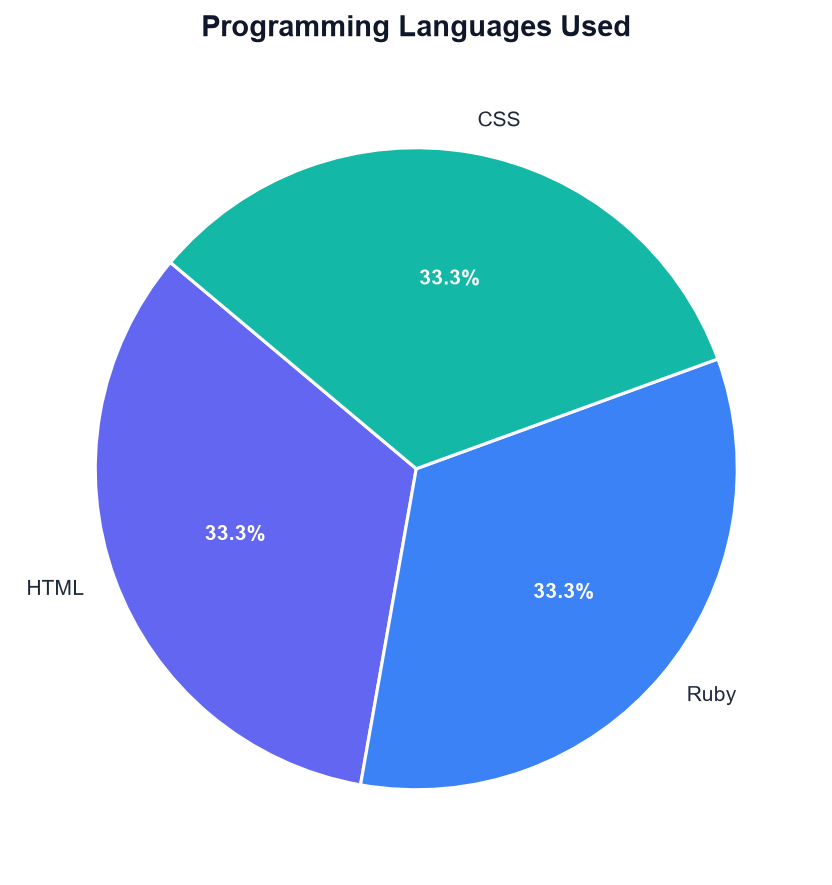
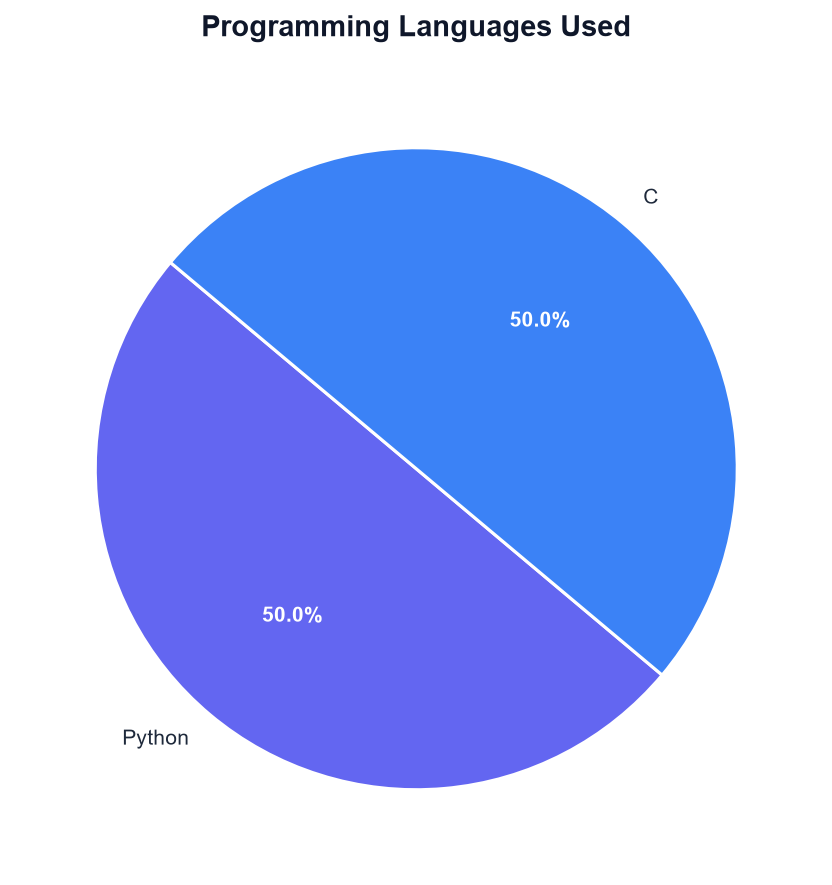
README version1

diff --git a/README.md b/README.md
@@ -1,88 +1,127 @@
-# 📊 GitHub Portfolio Analyzer
+# GitHub Portfolio Analyzer
 
-A modern, professional Python and **Streamlit** dashboard designed to analyze public GitHub profiles, evaluate portfolio health, visualize key repository metrics, and generate executive CSV and PDF reports.
+## Présentation
 
----
-
-## 🌟 Key Features
-
-* **Profile Overview**: Displays avatar, bio, follower count, following count, and public repository counts.
-* **Portfolio Metrics**: Calculates aggregate star count, fork count, and identifies the user's top-performing repository.
-* **Portfolio Scoring Algorithm**: Evaluates profile quality on a 0–100 scale using repository count, star counts, follower engagement, and description completeness.
-* **Actionable Recommendations**: Automatically highlights profile optimization opportunities.
-* **Interactive & Static Visualizations**: Interactive Plotly charts (Language breakdown donut chart, Stars bar chart, Forks bar chart) alongside Matplotlib image exports.
-* **CSV Export**: One-click download of all repository details encoded in UTF-8 format (`<username>_repositories.csv`).
-* **Professional PDF Export**: Generates a PDF audit report featuring user details, avatar image, executive metrics summary, recommendations, and structured repository tables (`<username>_portfolio_report.pdf`).
-* **Robust Error Handling**: Friendly error banners for missing usernames, 404 non-existent users, API rate limits, and network connection drops.
-* **Performance Caching**: Uses Streamlit `@st.cache_data` caching to minimize redundant GitHub API calls.
+GitHub Portfolio Analyzer est une application développée en **Python** avec **Streamlit** permettant d'analyser un profil GitHub public. Elle récupère les données via l'API GitHub, génère des statistiques, calcule un score de portfolio et propose des visualisations interactives ainsi que des exports au format CSV et PDF.
 
 ---
 
-## 🏗 Project Architecture
+## Fonctionnalités
 
-```
+- Analyse d'un profil GitHub public
+- Récupération des informations utilisateur
+- Analyse des dépôts
+- Calcul d'un score de portfolio
+- Répartition des langages de programmation
+- Graphiques interactifs avec Plotly
+- Graphiques statistiques avec Matplotlib
+- Export des données en CSV
+- Génération d'un rapport PDF
+- Interface moderne avec Streamlit
+- Gestion des erreurs (utilisateur introuvable, limite API, erreurs réseau)
+
+---
+
+
+## Architecture du projet
+
+```text
 github-portfolio-analyzer/
 │
-├── app.py                  # Main Streamlit web application & UI dashboard
-├── main.py                 # CLI interface for command-line execution
-├── requirements.txt        # Python package dependencies
-├── README.md               # Project documentation
-│
 ├── api/
-│   └── github_api.py       # GitHub REST API client & session handler
-│
+│   └── github_api.py
 ├── services/
-│   └── analyzer.py         # Business logic for portfolio scoring & analytics
-│
+│   └── analyzer.py
 ├── utils/
-│   ├── charts.py           # Matplotlib static chart generator
-│   ├── plotly_charts.py    # Plotly interactive chart generator
-│   └── pdf_generator.py    # ReportLab PDF report generation engine
-│
-└── images/                 # Saved chart image artifacts
+│   ├── charts.py
+│   ├── plotly_charts.py
+│   └── pdf_generator.py
+├── assets/
+├── app.py
+├── requirements.txt
+└── README.md
 ```
 
 ---
 
-## 🚀 Quick Start Guide
+## Technologies
 
-### 1. Prerequisites
+- Python
+- Streamlit
+- GitHub REST API
+- Requests
+- Pandas
+- Plotly
+- Matplotlib
+- ReportLab
 
-Ensure you have Python 3.9+ installed.
+---
 
-### 2. Installation
-
-Clone the repository and install the required dependencies:
+## Installation
 
 ```bash
+git clone https://github.com/rayhanemokhtari2004-sudo/github-portfolio-analyzer.git
+
 cd github-portfolio-analyzer
+
+python -m venv venv
+
+# Windows
+venv\Scripts\activate
+
+# Linux / macOS
+source venv/bin/activate
+
 pip install -r requirements.txt
-```
 
-### 3. Run the Web Application
-
-Launch the Streamlit dashboard:
-
-```bash
 streamlit run app.py
 ```
 
-The application will automatically open in your default browser at `http://localhost:8501`.
+---
 
-### 4. Run CLI Mode (Optional)
+## Utilisation
 
-Alternatively, run the analyzer directly in your terminal:
-
-```bash
-python main.py
-```
+1. Lancez l'application.
+2. Saisissez un nom d'utilisateur GitHub.
+3. Cliquez sur **Analyser**.
+4. Consultez les statistiques et les graphiques.
+5. Téléchargez les résultats au format CSV ou PDF.
 
 ---
 
-## 🛠 Technologies Used
+## Calcul du score
 
-* **Frontend & Dashboard**: Streamlit, Custom CSS
-* **Data Processing**: Pandas
-* **API Integration**: Requests (GitHub REST API v3)
-* **Visualization**: Plotly Express, Matplotlib
-* **PDF Report Generation**: ReportLab
+Le score du portfolio est calculé à partir de plusieurs indicateurs, notamment :
+
+- Nombre de dépôts
+- Nombre d'étoiles
+- Nombre de forks
+- Nombre d'abonnés
+- Diversité des langages
+- Activité globale du profil
+
+---
+
+## Exports
+
+### CSV
+
+- Dépôts
+- Langages
+- Étoiles
+- Forks
+- Visibilité
+- URL
+
+### PDF
+
+- Informations du profil
+- Statistiques
+- Score du portfolio
+- Répartition des langages
+- Top dépôts
+- Date de génération
+
+---
+
+
